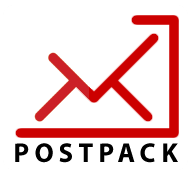
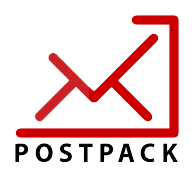
v19.07

diff --git a/templates/customerQuote.php b/templates/customerQuote.php
@@ -71,7 +71,7 @@
 					<td hidden> <input type="" ng-model="x.quote_ref"></td>
 					<td hidden> <input type="" ng-model="x.business"></td>
 
-					<td><input type="text" maxlength="30" type=""ng-model="x.description" ng-change="updateLine(x.id,x.ref, x.size, x.qty, x.unit_price,x.total_price,x.description,selectedCustomer.customerId,selectedCustomer.salesId,selectedCustomer.quoteRef,selectedCustomer.date)"></td>
+					<td><input type="text" maxlength="50" type=""ng-model="x.description" ng-change="updateLine(x.id,x.ref, x.size, x.qty, x.unit_price,x.total_price,x.description,selectedCustomer.customerId,selectedCustomer.salesId,selectedCustomer.quoteRef,selectedCustomer.date)"></td>
 					<td><input type="text" maxlength="20" type="" ng-model="x.ref" ng-change="updateLine(x.id,x.ref, x.size, x.qty, x.unit_price,x.total_price,x.description,selectedCustomer.customerId,selectedCustomer.salesId,selectedCustomer.quoteRef,selectedCustomer.date)"></td>
 					<td><input type="text" ng-model="x.size" ng-change="updateLine(x.id,x.ref, x.size, x.qty, x.unit_price,x.total_price,x.description,selectedCustomer.customerId,selectedCustomer.salesId,selectedCustomer.quoteRef,selectedCustomer.date)"></td>
 					<td><input type="text" ng-model="x.qty" ng-change="updateLine(x.id,x.ref, x.size, x.qty, x.unit_price,x.total_price,x.description,selectedCustomer.customerId,selectedCustomer.salesId,selectedCustomer.quoteRef,selectedCustomer.date)"></td>
@@ -117,25 +117,27 @@ window.print()
 </form>
 <div class="CustomerQuote">
 
-	<div class="CustomerQuoteLogo" style="size: 70%; line-height: 5px" id="CustQuote" >		
-			<img src="/css/images/ppack.png" style="text-align: left; margin-top: -270px; margin-left: -15px">
-			<div id="address" style="text-align: right;margin-top: -200px" >
+	<div class="CustomerQuoteLogo" style="  margin-top: -230px;" id="CustQuote" >	</div>	
+			<img src="/css/images/ppack.png" style="  margin-left: -10px; width: 150; height: 138px">
+			<div id="address" style="text-align: right;float: right;line-height: 5px; margin-top: 10px" >
 			<p>Postpack Ltd, Hollis Road,Grantham, NG31 7QH</p>
 			<p>Tel: 0845 071 0754</p>
 			<p>Email: sales@postpack.co.uk</p>
 		</div>
-	</div>
-	<div class="CustomerQuote">
-		<h4>{{selectedCustomer.customer}}</h4>
-		<h4>{{selectedCustomer.business}}</h4>
-		<h4>{{selectedCustomer.address}}</h4>
-		<h4>{{selectedCustomer.contact_no}}</h4>
-		<h4>{{selectedCustomer.Cemail}}</h4>
+
+	
+		<!--<p>{{selectedCustomer.customer}}</p>
+		<p>{{selectedCustomer.business}}</p>
+		<p>{{selectedCustomer.address}}</p>
+		<p>{{selectedCustomer.contact_no}}</p>
+		<p>{{selectedCustomer.Cemail}}</p>
+		<br/>-->
 		<br/>
-		<p>Dear {{selectedCustomer.customer}}</p>
+		<br/>
+		<p>Dear {{selectedCustomer.customer}},</p>
 
 		<p>We have the pleasure of quoting for your packaging requirements as  follows;</p>
-	</div>
+	
 
 		<table class="table" ng-model="send_quote"  style="max-width: 2480px">
 			<thead>
@@ -169,29 +171,28 @@ window.print()
 					<td><input type="" ng-model="x.size"></td>
 					<td><input type="" ng-model="x.qty"></td>
 					<td><input type="" ng-model="x.unit_price"></td>
-					
-				</div>
-				</tr>
-			
-			<th colspan="5" class="CustomerQuoteHide"><input ng-show="selectedCustomer" type="button" ng-click="addLine(selectedCustomer.quoteRef)" class="btn btn-primary addnew pull-right" value="Add New"></th>
+			</tr>
 
-		</tr>
+			
+			
 		<th colspan="5" scope="colgroup" style="border:1px solid black">Please note: All prices are shown excluding VAT. Quantities are subject to +/- 10% tolerance on bespoke items. Quotations are valid for 30 days from above date and are subject to our terms and contions of sale, copies of which are avaliable on request. Additional tooling/plate charges may apply for diecuts and printed products. Stock can be held by us for call off as requested prior agreement.</th>
 	</tbody>
 </table>
 
 <p>Delivery lead time for the above: <input type="text" ng-model="leadTime" col="10" ng-required="true"></p>
 <p>Delivery Charges: <input type="text" ng-model="deliveryCharges" col="10" ng-required="true"></p>
-</div>
+
 <div class="CustomerQuote">
 
 	<p>I look forward to hearing your thoughts and would be delighted to answer any questions you may have.</p>
 	<p>Kind Regards,</p>
 	<p>{{selectedCustomer.sales_man}}</p>
 </div>
-</div>
-</div>
+
+
 <div id="footer" class="CustomerQuote" style="text-align: center; vertical-align: bottom; padding-top: 100px;"hidden>
 	<p>POSTPACK LIMITED</p>
 	<P>Registered in England No:444 6988. VAT Reg No: 796 7468 51. Registered Office: Unit 4, Hollis Road, Grantham, Lincolnshire. NG31 7QH. For payment details & options, please contact sales@postpack.co.uk.</P>
 	</div>
+</div>
+</div>
